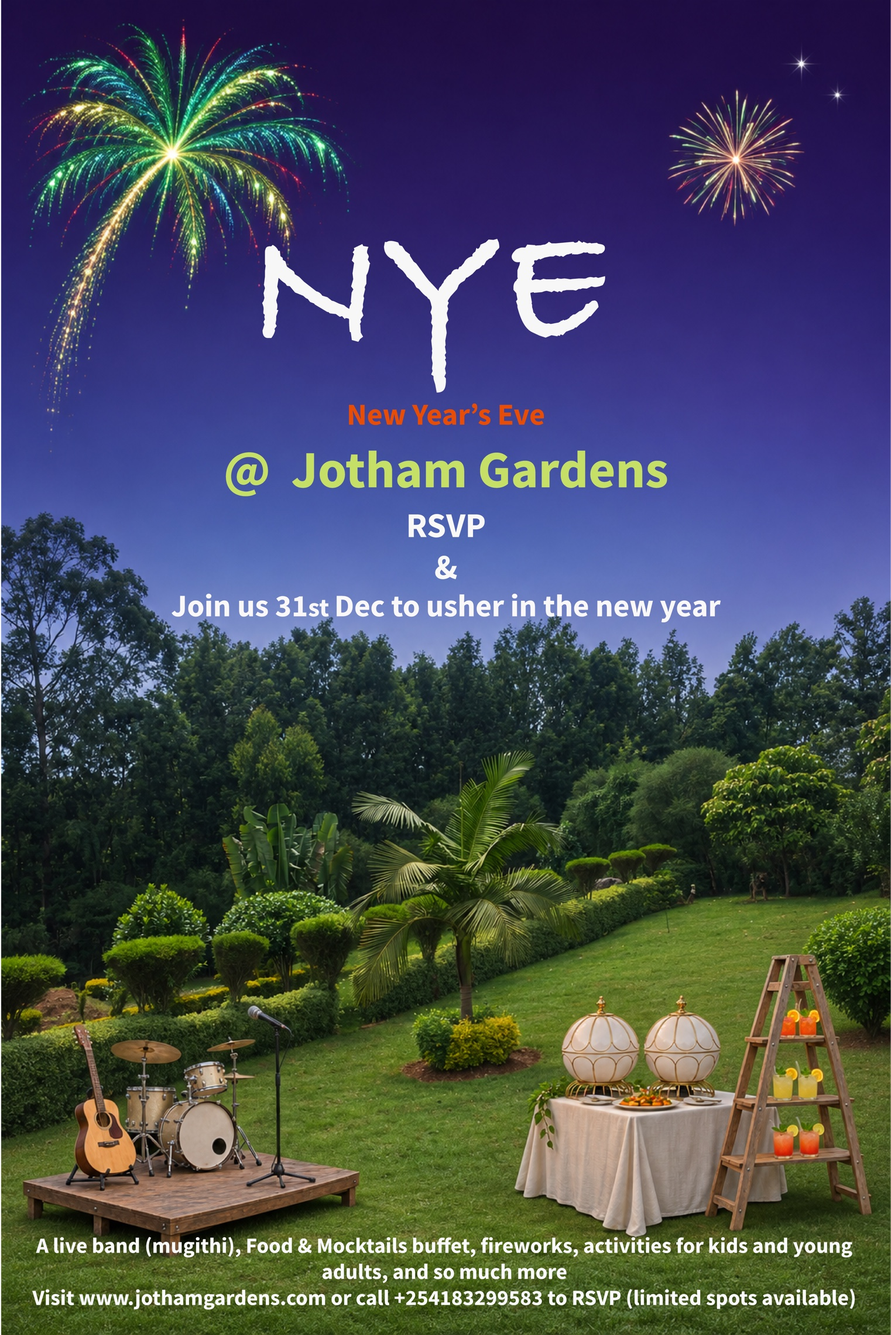
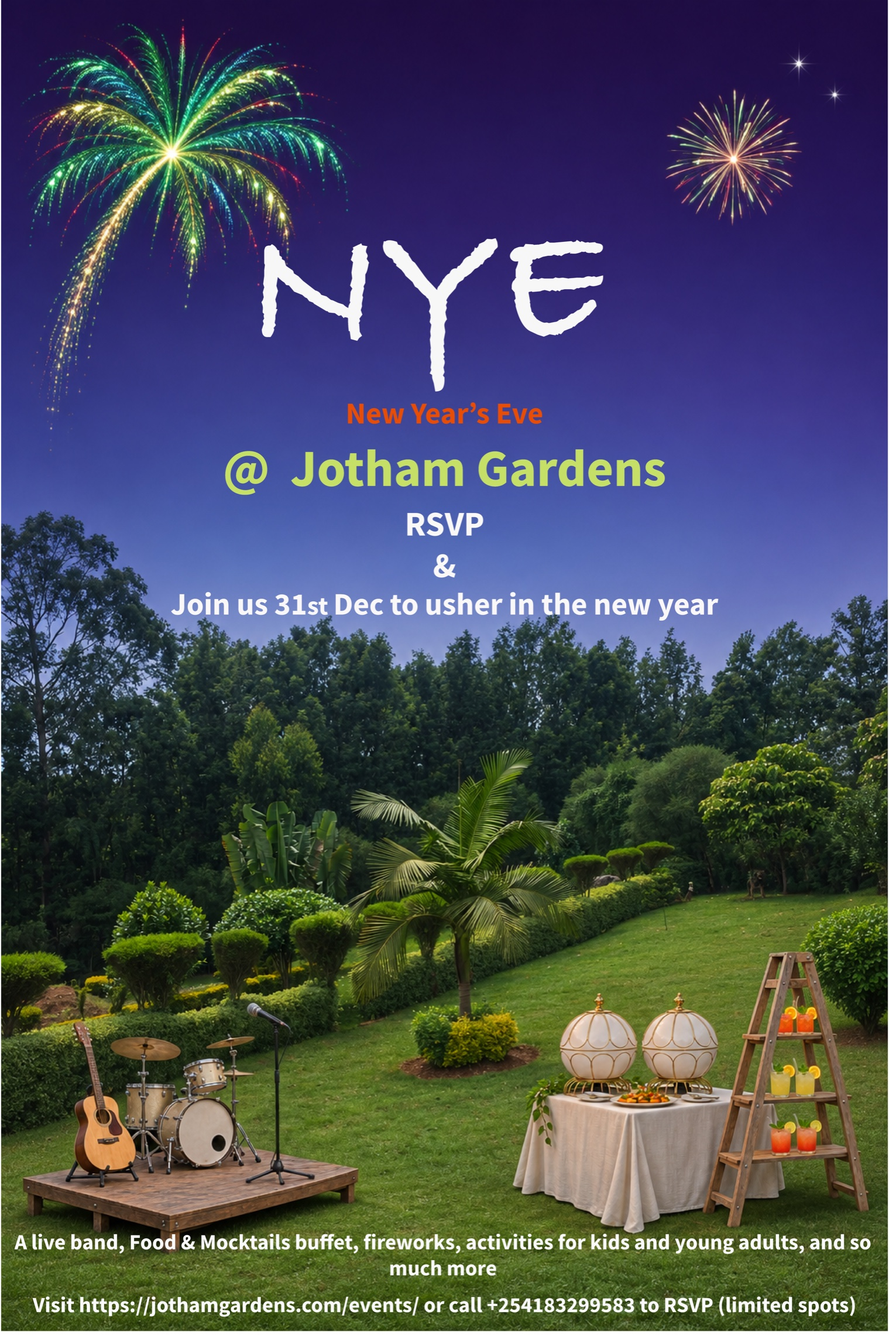
Replace NYE poster and promote live band

diff --git a/src/content.js b/src/content.js
@@ -11,8 +11,8 @@ export const content = {
       id: 'nye-at-jotham-gardens',
       name: 'NYE @ Jotham Gardens',
       date: '2026-12-31',
-      image: { src: 'nye-flyer', width: 1522, height: 2280, alt: 'New Year’s Eve at Jotham Gardens flyer' },
-      description: 'Live Mugithi, fireworks, kids’ activities, and competitive games for young adults with prizes to win. Limited spots.',
+      image: { src: 'nye-flyer', width: 1519, height: 2280, alt: 'New Year’s Eve at Jotham Gardens flyer' },
+      description: 'Live Band, fireworks, kids’ activities, and competitive games for young adults with prizes to win. Limited spots.',
       prices: {
         tiers: ['earlyBird', 'gate'],
         groups: [
